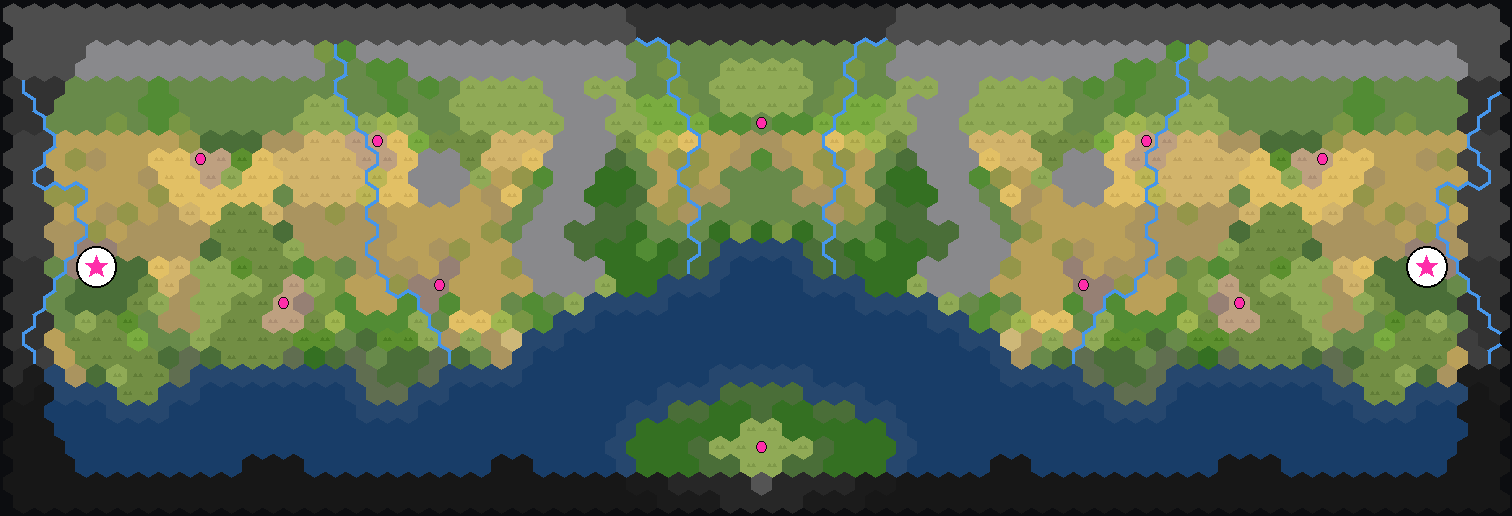
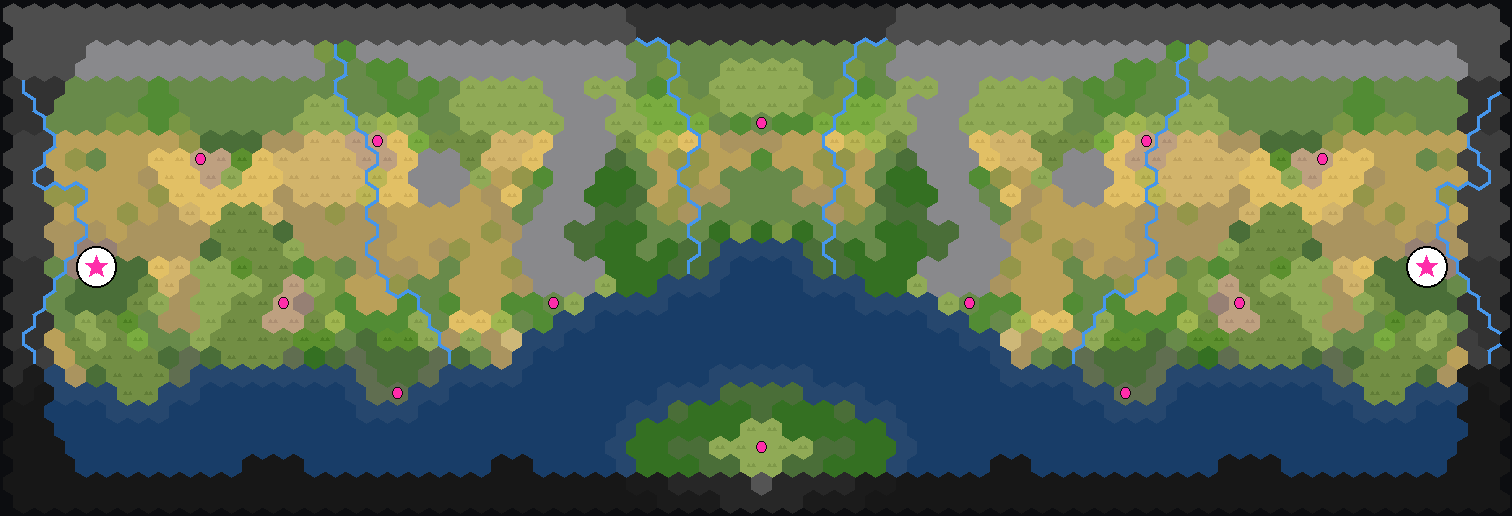
Regenerate config atlas for the mid-valley city pair
Re-render the 24-map config grid ({Duel,Tiny} x {Square,Wide,Ultrawide} x
{Mirror,PointSymmetry} x seeds 1,5) and rebuild index.html so the showcase
reflects the new central valley — four contested cities down the spine
(island + highland end prizes plus the mid-valley mirror pair). All 24
maps carry the pair.

Claude-Session: https://claude.ai/code/session_016anqmz6LqKaoVPgJrYHWkN

diff --git a/atlas/index.html b/atlas/index.html
@@ -30,11 +30,11 @@ h1 { margin: 0 0 4px; font: 600 18px/1.2 ui-monospace, Menlo, monospace;
 #lb { position: fixed; inset: 0; background: #000d; display: none;
       align-items: center; justify-content: center; z-index: 50; cursor: zoom-out; }
 #lb img { max-width: 96vw; max-height: 96vh; image-rendering: auto; }
-.section{margin:22px 22px 0;font:600 15px ui-monospace,Menlo,monospace;color:#8fd18f;}</style></head><body>
+</style></head><body>
 <header><h1>Caldera Bay — Config Atlas</h1>
 <div class="sub">Duel &amp; Tiny · Square / Wide / Ultrawide · Mirror (classic estuary)
 vs Point Symmetry (the S-strait) · always Temperate</div></header>
-<h2 class="section">Duel · Mirror — 6 gens</h2><div class="grid"><div class="card"><img src="maps/Caldera_Bay_Duel-Square-Mirror-1.png" loading="lazy"><div class="meta"><div class="seed">seed Duel-Square-Mirror-1</div><div class="chips"><span class="chip">46×44</span><span class="chip">12% flat-lush</span><span class="chip">water 476</span><span class="chip">mtn 275</span><span class="chip bad">rivers 167</span><span class="chip bad">forest 299</span><span class="chip ok">2 starts</span><span class="chip ok">mirror-sym</span><span class="chip">sites 14</span><span class="chip">tribes 10</span><span class="chip">res 57</span></div></div></div><div class="card"><img src="maps/Caldera_Bay_Duel-Square-Mirror-5.png" loading="lazy"><div class="meta"><div class="seed">seed Duel-Square-Mirror-5</div><div class="chips"><span class="chip">46×44</span><span class="chip">11% flat-lush</span><span class="chip">water 455</span><span class="chip">mtn 338</span><span class="chip bad">rivers 176</span><span class="chip bad">forest 361</span><span class="chip ok">2 starts</span><span class="chip ok">mirror-sym</span><span class="chip">sites 12</span><span class="chip">tribes 8</span><span class="chip">res 86</span></div></div></div><div class="card"><img src="maps/Caldera_Bay_Duel-Wide-Mirror-1.png" loading="lazy"><div class="meta"><div class="seed">seed Duel-Wide-Mirror-1</div><div class="chips"><span class="chip">58×34</span><span class="chip">13% flat-lush</span><span class="chip">water 542</span><span class="chip">mtn 292</span><span class="chip bad">rivers 143</span><span class="chip bad">forest 319</span><span class="chip ok">2 starts</span><span class="chip ok">mirror-sym</span><span class="chip">sites 12</span><span class="chip">tribes 8</span><span class="chip">res 74</span></div></div></div><div class="card"><img src="maps/Caldera_Bay_Duel-Wide-Mirror-5.png" loading="lazy"><div class="meta"><div class="seed">seed Duel-Wide-Mirror-5</div><div class="chips"><span class="chip">58×34</span><span class="chip">12% flat-lush</span><span class="chip">water 507</span><span class="chip">mtn 300</span><span class="chip bad">rivers 136</span><span class="chip bad">forest 365</span><span class="chip ok">2 starts</span><span class="chip ok">mirror-sym</span><span class="chip">sites 14</span><span class="chip">tribes 10</span><span class="chip">res 74</span></div></div></div><div class="card"><img src="maps/Caldera_Bay_Duel-Ultrawide-Mirror-1.png" loading="lazy"><div class="meta"><div class="seed">seed Duel-Ultrawide-Mirror-1</div><div class="chips"><span class="chip">72×28</span><span class="chip">16% flat-lush</span><span class="chip">water 613</span><span class="chip">mtn 298</span><span class="chip bad">rivers 173</span><span class="chip bad">forest 270</span><span class="chip ok">2 starts</span><span class="chip ok">mirror-sym</span><span class="chip">sites 16</span><span class="chip">tribes 10</span><span class="chip">res 72</span></div></div></div><div class="card"><img src="maps/Caldera_Bay_Duel-Ultrawide-Mirror-5.png" loading="lazy"><div class="meta"><div class="seed">seed Duel-Ultrawide-Mirror-5</div><div class="chips"><span class="chip">72×28</span><span class="chip">8% flat-lush</span><span class="chip">water 587</span><span class="chip">mtn 304</span><span class="chip bad">rivers 146</span><span class="chip bad">forest 372</span><span class="chip ok">2 starts</span><span class="chip ok">mirror-sym</span><span class="chip">sites 12</span><span class="chip">tribes 8</span><span class="chip">res 66</span></div></div></div></div><h2 class="section">Duel · Point Symmetry — 6 gens</h2><div class="grid"><div class="card"><img src="maps/Caldera_Bay_Duel-Square-PointSymmetry-1.png" loading="lazy"><div class="meta"><div class="seed">seed Duel-Square-PointSymmetry-1</div><div class="chips"><span class="chip">46×44</span><span class="chip">9% flat-lush</span><span class="chip">water 818</span><span class="chip">mtn 194</span><span class="chip bad">rivers 139</span><span class="chip bad">forest 264</span><span class="chip ok">2 starts</span><span class="chip ok">point-sym</span><span class="chip">sites 16</span><span class="chip">tribes 12</span><span class="chip">res 76</span></div></div></div><div class="card"><img src="maps/Caldera_Bay_Duel-Square-PointSymmetry-5.png" loading="lazy"><div class="meta"><div class="seed">seed Duel-Square-PointSymmetry-5</div><div class="chips"><span class="chip">46×44</span><span class="chip">6% flat-lush</span><span class="chip">water 762</span><span class="chip">mtn 240</span><span class="chip bad">rivers 140</span><span class="chip bad">forest 254</span><span class="chip ok">2 starts</span><span class="chip ok">point-sym</span><span class="chip">sites 14</span><span class="chip">tribes 10</span><span class="chip">res 70</span></div></div></div><div class="card"><img src="maps/Caldera_Bay_Duel-Wide-PointSymmetry-1.png" loading="lazy"><div class="meta"><div class="seed">seed Duel-Wide-PointSymmetry-1</div><div class="chips"><span class="chip">58×34</span><span class="chip">7% flat-lush</span><span class="chip">water 824</span><span class="chip">mtn 240</span><span class="chip bad">rivers 151</span><span class="chip bad">forest 282</span><span class="chip ok">2 starts</span><span class="chip ok">point-sym</span><span class="chip">sites 18</span><span class="chip">tribes 14</span><span class="chip">res 90</span></div></div></div><div class="card"><img src="maps/Caldera_Bay_Duel-Wide-PointSymmetry-5.png" loading="lazy"><div class="meta"><div class="seed">seed Duel-Wide-PointSymmetry-5</div><div class="chips"><span class="chip">58×34</span><span class="chip">7% flat-lush</span><span class="chip">water 806</span><span class="chip">mtn 252</span><span class="chip bad">rivers 120</span><span class="chip bad">forest 224</span><span class="chip ok">2 starts</span><span class="chip ok">point-sym</span><span class="chip">sites 14</span><span class="chip">tribes 10</span><span class="chip">res 75</span></div></div></div><div class="card"><img src="maps/Caldera_Bay_Duel-Ultrawide-PointSymmetry-1.png" loading="lazy"><div class="meta"><div class="seed">seed Duel-Ultrawide-PointSymmetry-1</div><div class="chips"><span class="chip">72×28</span><span class="chip">11% flat-lush</span><span class="chip">water 856</span><span class="chip">mtn 266</span><span class="chip bad">rivers 170</span><span class="chip bad">forest 275</span><span class="chip ok">2 starts</span><span class="chip ok">point-sym</span><span class="chip">sites 14</span><span class="chip">tribes 10</span><span class="chip">res 67</span></div></div></div><div class="card"><img src="maps/Caldera_Bay_Duel-Ultrawide-PointSymmetry-5.png" loading="lazy"><div class="meta"><div class="seed">seed Duel-Ultrawide-PointSymmetry-5</div><div class="chips"><span class="chip">72×28</span><span class="chip">7% flat-lush</span><span class="chip">water 878</span><span class="chip">mtn 272</span><span class="chip bad">rivers 135</span><span class="chip bad">forest 236</span><span class="chip ok">2 starts</span><span class="chip ok">point-sym</span><span class="chip">sites 18</span><span class="chip">tribes 12</span><span class="chip">res 74</span></div></div></div></div><h2 class="section">Tiny · Mirror — 6 gens</h2><div class="grid"><div class="card"><img src="maps/Caldera_Bay_Tiny-Square-Mirror-1.png" loading="lazy"><div class="meta"><div class="seed">seed Tiny-Square-Mirror-1</div><div class="chips"><span class="chip">58×58</span><span class="chip">14% flat-lush</span><span class="chip">water 776</span><span class="chip">mtn 389</span><span class="chip bad">rivers 188</span><span class="chip bad">forest 526</span><span class="chip ok">2 starts</span><span class="chip ok">mirror-sym</span><span class="chip">sites 26</span><span class="chip">tribes 20</span><span class="chip">res 120</span></div></div></div><div class="card"><img src="maps/Caldera_Bay_Tiny-Square-Mirror-5.png" loading="lazy"><div class="meta"><div class="seed">seed Tiny-Square-Mirror-5</div><div class="chips"><span class="chip">58×58</span><span class="chip">15% flat-lush</span><span class="chip">water 813</span><span class="chip">mtn 451</span><span class="chip bad">rivers 242</span><span class="chip bad">forest 401</span><span class="chip ok">2 starts</span><span class="chip ok">mirror-sym</span><span class="chip">sites 24</span><span class="chip">tribes 20</span><span class="chip">res 141</span></div></div></div><div class="card"><img src="maps/Caldera_Bay_Tiny-Wide-Mirror-1.png" loading="lazy"><div class="meta"><div class="seed">seed Tiny-Wide-Mirror-1</div><div class="chips"><span class="chip">74×46</span><span class="chip">14% flat-lush</span><span class="chip">water 756</span><span class="chip">mtn 469</span><span class="chip bad">rivers 262</span><span class="chip bad">forest 485</span><span class="chip ok">2 starts</span><span class="chip ok">mirror-sym</span><span class="chip">sites 26</span><span class="chip">tribes 20</span><span class="chip">res 142</span></div></div></div><div class="card"><img src="maps/Caldera_Bay_Tiny-Wide-Mirror-5.png" loading="lazy"><div class="meta"><div class="seed">seed Tiny-Wide-Mirror-5</div><div class="chips"><span class="chip">74×46</span><span class="chip">10% flat-lush</span><span class="chip">water 719</span><span class="chip">mtn 486</span><span class="chip bad">rivers 240</span><span class="chip bad">forest 406</span><span class="chip ok">2 starts</span><span class="chip ok">mirror-sym</span><span class="chip">sites 24</span><span class="chip">tribes 20</span><span class="chip">res 138</span></div></div></div><div class="card"><img src="maps/Caldera_Bay_Tiny-Ultrawide-Mirror-1.png" loading="lazy"><div class="meta"><div class="seed">seed Tiny-Ultrawide-Mirror-1</div><div class="chips"><span class="chip">92×36</span><span class="chip">11% flat-lush</span><span class="chip">water 785</span><span class="chip">mtn 343</span><span class="chip bad">rivers 239</span><span class="chip bad">forest 455</span><span class="chip ok">2 starts</span><span class="chip ok">mirror-sym</span><span class="chip">sites 24</span><span class="chip">tribes 18</span><span class="chip">res 125</span></div></div></div><div class="card"><img src="maps/Caldera_Bay_Tiny-Ultrawide-Mirror-5.png" loading="lazy"><div class="meta"><div class="seed">seed Tiny-Ultrawide-Mirror-5</div><div class="chips"><span class="chip">92×36</span><span class="chip">9% flat-lush</span><span class="chip">water 789</span><span class="chip">mtn 531</span><span class="chip bad">rivers 237</span><span class="chip bad">forest 599</span><span class="chip ok">2 starts</span><span class="chip ok">mirror-sym</span><span class="chip">sites 24</span><span class="chip">tribes 20</span><span class="chip">res 132</span></div></div></div></div><h2 class="section">Tiny · Point Symmetry — 6 gens</h2><div class="grid"><div class="card"><img src="maps/Caldera_Bay_Tiny-Square-PointSymmetry-1.png" loading="lazy"><div class="meta"><div class="seed">seed Tiny-Square-PointSymmetry-1</div><div class="chips"><span class="chip">58×58</span><span class="chip">8% flat-lush</span><span class="chip">water 1142</span><span class="chip">mtn 336</span><span class="chip bad">rivers 222</span><span class="chip bad">forest 552</span><span class="chip ok">2 starts</span><span class="chip ok">point-sym</span><span class="chip">sites 26</span><span class="chip">tribes 22</span><span class="chip">res 146</span></div></div></div><div class="card"><img src="maps/Caldera_Bay_Tiny-Square-PointSymmetry-5.png" loading="lazy"><div class="meta"><div class="seed">seed Tiny-Square-PointSymmetry-5</div><div class="chips"><span class="chip">58×58</span><span class="chip">11% flat-lush</span><span class="chip">water 1026</span><span class="chip">mtn 402</span><span class="chip bad">rivers 232</span><span class="chip bad">forest 334</span><span class="chip ok">2 starts</span><span class="chip ok">point-sym</span><span class="chip">sites 26</span><span class="chip">tribes 22</span><span class="chip">res 121</span></div></div></div><div class="card"><img src="maps/Caldera_Bay_Tiny-Wide-PointSymmetry-1.png" loading="lazy"><div class="meta"><div class="seed">seed Tiny-Wide-PointSymmetry-1</div><div class="chips"><span class="chip">74×46</span><span class="chip">8% flat-lush</span><span class="chip">water 1028</span><span class="chip">mtn 410</span><span class="chip bad">rivers 242</span><span class="chip bad">forest 470</span><span class="chip ok">2 starts</span><span class="chip ok">point-sym</span><span class="chip">sites 26</span><span class="chip">tribes 22</span><span class="chip">res 116</span></div></div></div><div class="card"><img src="maps/Caldera_Bay_Tiny-Wide-PointSymmetry-5.png" loading="lazy"><div class="meta"><div class="seed">seed Tiny-Wide-PointSymmetry-5</div><div class="chips"><span class="chip">74×46</span><span class="chip">12% flat-lush</span><span class="chip">water 1056</span><span class="chip">mtn 414</span><span class="chip bad">rivers 232</span><span class="chip bad">forest 396</span><span class="chip ok">2 starts</span><span class="chip ok">point-sym</span><span class="chip">sites 26</span><span class="chip">tribes 22</span><span class="chip">res 138</span></div></div></div><div class="card"><img src="maps/Caldera_Bay_Tiny-Ultrawide-PointSymmetry-1.png" loading="lazy"><div class="meta"><div class="seed">seed Tiny-Ultrawide-PointSymmetry-1</div><div class="chips"><span class="chip">92×36</span><span class="chip">10% flat-lush</span><span class="chip">water 1056</span><span class="chip">mtn 374</span><span class="chip bad">rivers 228</span><span class="chip bad">forest 500</span><span class="chip ok">2 starts</span><span class="chip ok">point-sym</span><span class="chip">sites 28</span><span class="chip">tribes 22</span><span class="chip">res 120</span></div></div></div><div class="card"><img src="maps/Caldera_Bay_Tiny-Ultrawide-PointSymmetry-5.png" loading="lazy"><div class="meta"><div class="seed">seed Tiny-Ultrawide-PointSymmetry-5</div><div class="chips"><span class="chip">92×36</span><span class="chip">7% flat-lush</span><span class="chip">water 1100</span><span class="chip">mtn 488</span><span class="chip bad">rivers 233</span><span class="chip bad">forest 480</span><span class="chip ok">2 starts</span><span class="chip ok">point-sym</span><span class="chip">sites 24</span><span class="chip">tribes 20</span><span class="chip">res 119</span></div></div></div></div>
+<div class="grid"><div class="card"><img src="maps/Caldera_Bay_Duel-Square-Mirror-1.png" loading="lazy"><div class="meta"><div class="seed">seed Duel-Square-Mirror-1</div><div class="chips"><span class="chip">46×44</span><span class="chip">12% flat-lush</span><span class="chip">water 476</span><span class="chip">mtn 275</span><span class="chip bad">rivers 167</span><span class="chip bad">forest 292</span><span class="chip ok">2 starts</span><span class="chip ok">mirror-sym</span><span class="chip">sites 14</span><span class="chip">tribes 10</span><span class="chip">res 60</span></div></div></div><div class="card"><img src="maps/Caldera_Bay_Duel-Square-Mirror-5.png" loading="lazy"><div class="meta"><div class="seed">seed Duel-Square-Mirror-5</div><div class="chips"><span class="chip">46×44</span><span class="chip">11% flat-lush</span><span class="chip">water 455</span><span class="chip">mtn 338</span><span class="chip bad">rivers 176</span><span class="chip bad">forest 356</span><span class="chip ok">2 starts</span><span class="chip ok">mirror-sym</span><span class="chip">sites 14</span><span class="chip">tribes 10</span><span class="chip">res 74</span></div></div></div><div class="card"><img src="maps/Caldera_Bay_Duel-Square-PointSymmetry-1.png" loading="lazy"><div class="meta"><div class="seed">seed Duel-Square-PointSymmetry-1</div><div class="chips"><span class="chip">46×44</span><span class="chip">12% flat-lush</span><span class="chip">water 477</span><span class="chip">mtn 277</span><span class="chip bad">rivers 143</span><span class="chip bad">forest 295</span><span class="chip ok">2 starts</span><span class="chip ok">point-sym</span><span class="chip">sites 15</span><span class="chip">tribes 10</span><span class="chip">res 78</span></div></div></div><div class="card"><img src="maps/Caldera_Bay_Duel-Square-PointSymmetry-5.png" loading="lazy"><div class="meta"><div class="seed">seed Duel-Square-PointSymmetry-5</div><div class="chips"><span class="chip">46×44</span><span class="chip">11% flat-lush</span><span class="chip">water 459</span><span class="chip">mtn 338</span><span class="chip bad">rivers 134</span><span class="chip bad">forest 377</span><span class="chip ok">2 starts</span><span class="chip ok">point-sym</span><span class="chip">sites 17</span><span class="chip">tribes 12</span><span class="chip">res 92</span></div></div></div><div class="card"><img src="maps/Caldera_Bay_Duel-Ultrawide-Mirror-1.png" loading="lazy"><div class="meta"><div class="seed">seed Duel-Ultrawide-Mirror-1</div><div class="chips"><span class="chip">72×28</span><span class="chip">16% flat-lush</span><span class="chip">water 613</span><span class="chip">mtn 298</span><span class="chip bad">rivers 173</span><span class="chip bad">forest 273</span><span class="chip ok">2 starts</span><span class="chip ok">mirror-sym</span><span class="chip">sites 16</span><span class="chip">tribes 10</span><span class="chip">res 66</span></div></div></div><div class="card"><img src="maps/Caldera_Bay_Duel-Ultrawide-Mirror-5.png" loading="lazy"><div class="meta"><div class="seed">seed Duel-Ultrawide-Mirror-5</div><div class="chips"><span class="chip">72×28</span><span class="chip">8% flat-lush</span><span class="chip">water 587</span><span class="chip">mtn 304</span><span class="chip bad">rivers 146</span><span class="chip bad">forest 380</span><span class="chip ok">2 starts</span><span class="chip ok">mirror-sym</span><span class="chip">sites 14</span><span class="chip">tribes 10</span><span class="chip">res 72</span></div></div></div><div class="card"><img src="maps/Caldera_Bay_Duel-Ultrawide-PointSymmetry-1.png" loading="lazy"><div class="meta"><div class="seed">seed Duel-Ultrawide-PointSymmetry-1</div><div class="chips"><span class="chip">72×28</span><span class="chip">16% flat-lush</span><span class="chip">water 613</span><span class="chip">mtn 298</span><span class="chip bad">rivers 163</span><span class="chip bad">forest 264</span><span class="chip ok">2 starts</span><span class="chip ok">point-sym</span><span class="chip">sites 14</span><span class="chip">tribes 8</span><span class="chip">res 74</span></div></div></div><div class="card"><img src="maps/Caldera_Bay_Duel-Ultrawide-PointSymmetry-5.png" loading="lazy"><div class="meta"><div class="seed">seed Duel-Ultrawide-PointSymmetry-5</div><div class="chips"><span class="chip">72×28</span><span class="chip">7% flat-lush</span><span class="chip">water 591</span><span class="chip">mtn 304</span><span class="chip bad">rivers 152</span><span class="chip bad">forest 362</span><span class="chip ok">2 starts</span><span class="chip ok">point-sym</span><span class="chip">sites 15</span><span class="chip">tribes 10</span><span class="chip">res 76</span></div></div></div><div class="card"><img src="maps/Caldera_Bay_Duel-Wide-Mirror-1.png" loading="lazy"><div class="meta"><div class="seed">seed Duel-Wide-Mirror-1</div><div class="chips"><span class="chip">58×34</span><span class="chip">13% flat-lush</span><span class="chip">water 542</span><span class="chip">mtn 292</span><span class="chip bad">rivers 143</span><span class="chip bad">forest 314</span><span class="chip ok">2 starts</span><span class="chip ok">mirror-sym</span><span class="chip">sites 14</span><span class="chip">tribes 10</span><span class="chip">res 78</span></div></div></div><div class="card"><img src="maps/Caldera_Bay_Duel-Wide-Mirror-5.png" loading="lazy"><div class="meta"><div class="seed">seed Duel-Wide-Mirror-5</div><div class="chips"><span class="chip">58×34</span><span class="chip">12% flat-lush</span><span class="chip">water 507</span><span class="chip">mtn 300</span><span class="chip bad">rivers 136</span><span class="chip bad">forest 357</span><span class="chip ok">2 starts</span><span class="chip ok">mirror-sym</span><span class="chip">sites 16</span><span class="chip">tribes 12</span><span class="chip">res 64</span></div></div></div><div class="card"><img src="maps/Caldera_Bay_Duel-Wide-PointSymmetry-1.png" loading="lazy"><div class="meta"><div class="seed">seed Duel-Wide-PointSymmetry-1</div><div class="chips"><span class="chip">58×34</span><span class="chip">13% flat-lush</span><span class="chip">water 543</span><span class="chip">mtn 292</span><span class="chip bad">rivers 139</span><span class="chip bad">forest 320</span><span class="chip ok">2 starts</span><span class="chip ok">point-sym</span><span class="chip">sites 15</span><span class="chip">tribes 10</span><span class="chip">res 80</span></div></div></div><div class="card"><img src="maps/Caldera_Bay_Duel-Wide-PointSymmetry-5.png" loading="lazy"><div class="meta"><div class="seed">seed Duel-Wide-PointSymmetry-5</div><div class="chips"><span class="chip">58×34</span><span class="chip">12% flat-lush</span><span class="chip">water 510</span><span class="chip">mtn 300</span><span class="chip bad">rivers 148</span><span class="chip bad">forest 366</span><span class="chip ok">2 starts</span><span class="chip ok">point-sym</span><span class="chip">sites 17</span><span class="chip">tribes 12</span><span class="chip">res 66</span></div></div></div><div class="card"><img src="maps/Caldera_Bay_Tiny-Square-Mirror-1.png" loading="lazy"><div class="meta"><div class="seed">seed Tiny-Square-Mirror-1</div><div class="chips"><span class="chip">58×58</span><span class="chip">14% flat-lush</span><span class="chip">water 776</span><span class="chip">mtn 389</span><span class="chip bad">rivers 188</span><span class="chip bad">forest 529</span><span class="chip ok">2 starts</span><span class="chip ok">mirror-sym</span><span class="chip">sites 26</span><span class="chip">tribes 22</span><span class="chip">res 111</span></div></div></div><div class="card"><img src="maps/Caldera_Bay_Tiny-Square-Mirror-5.png" loading="lazy"><div class="meta"><div class="seed">seed Tiny-Square-Mirror-5</div><div class="chips"><span class="chip">58×58</span><span class="chip">15% flat-lush</span><span class="chip">water 813</span><span class="chip">mtn 451</span><span class="chip bad">rivers 242</span><span class="chip bad">forest 402</span><span class="chip ok">2 starts</span><span class="chip ok">mirror-sym</span><span class="chip">sites 28</span><span class="chip">tribes 22</span><span class="chip">res 142</span></div></div></div><div class="card"><img src="maps/Caldera_Bay_Tiny-Square-PointSymmetry-1.png" loading="lazy"><div class="meta"><div class="seed">seed Tiny-Square-PointSymmetry-1</div><div class="chips"><span class="chip">58×58</span><span class="chip">13% flat-lush</span><span class="chip">water 768</span><span class="chip">mtn 389</span><span class="chip bad">rivers 213</span><span class="chip bad">forest 548</span><span class="chip ok">2 starts</span><span class="chip ok">point-sym</span><span class="chip">sites 27</span><span class="chip">tribes 22</span><span class="chip">res 124</span></div></div></div><div class="card"><img src="maps/Caldera_Bay_Tiny-Square-PointSymmetry-5.png" loading="lazy"><div class="meta"><div class="seed">seed Tiny-Square-PointSymmetry-5</div><div class="chips"><span class="chip">58×58</span><span class="chip">16% flat-lush</span><span class="chip">water 815</span><span class="chip">mtn 451</span><span class="chip bad">rivers 242</span><span class="chip bad">forest 397</span><span class="chip ok">2 starts</span><span class="chip ok">point-sym</span><span class="chip">sites 27</span><span class="chip">tribes 22</span><span class="chip">res 163</span></div></div></div><div class="card"><img src="maps/Caldera_Bay_Tiny-Ultrawide-Mirror-1.png" loading="lazy"><div class="meta"><div class="seed">seed Tiny-Ultrawide-Mirror-1</div><div class="chips"><span class="chip">92×36</span><span class="chip">11% flat-lush</span><span class="chip">water 785</span><span class="chip">mtn 343</span><span class="chip bad">rivers 239</span><span class="chip bad">forest 461</span><span class="chip ok">2 starts</span><span class="chip ok">mirror-sym</span><span class="chip">sites 26</span><span class="chip">tribes 20</span><span class="chip">res 156</span></div></div></div><div class="card"><img src="maps/Caldera_Bay_Tiny-Ultrawide-Mirror-5.png" loading="lazy"><div class="meta"><div class="seed">seed Tiny-Ultrawide-Mirror-5</div><div class="chips"><span class="chip">92×36</span><span class="chip">9% flat-lush</span><span class="chip">water 789</span><span class="chip">mtn 531</span><span class="chip bad">rivers 237</span><span class="chip bad">forest 588</span><span class="chip ok">2 starts</span><span class="chip ok">mirror-sym</span><span class="chip">sites 26</span><span class="chip">tribes 22</span><span class="chip">res 152</span></div></div></div><div class="card"><img src="maps/Caldera_Bay_Tiny-Ultrawide-PointSymmetry-1.png" loading="lazy"><div class="meta"><div class="seed">seed Tiny-Ultrawide-PointSymmetry-1</div><div class="chips"><span class="chip">92×36</span><span class="chip">12% flat-lush</span><span class="chip">water 805</span><span class="chip">mtn 343</span><span class="chip bad">rivers 232</span><span class="chip bad">forest 464</span><span class="chip ok">2 starts</span><span class="chip ok">point-sym</span><span class="chip">sites 26</span><span class="chip">tribes 20</span><span class="chip">res 145</span></div></div></div><div class="card"><img src="maps/Caldera_Bay_Tiny-Ultrawide-PointSymmetry-5.png" loading="lazy"><div class="meta"><div class="seed">seed Tiny-Ultrawide-PointSymmetry-5</div><div class="chips"><span class="chip">92×36</span><span class="chip">9% flat-lush</span><span class="chip">water 793</span><span class="chip">mtn 533</span><span class="chip bad">rivers 203</span><span class="chip bad">forest 599</span><span class="chip ok">2 starts</span><span class="chip ok">point-sym</span><span class="chip">sites 27</span><span class="chip">tribes 22</span><span class="chip">res 149</span></div></div></div><div class="card"><img src="maps/Caldera_Bay_Tiny-Wide-Mirror-1.png" loading="lazy"><div class="meta"><div class="seed">seed Tiny-Wide-Mirror-1</div><div class="chips"><span class="chip">74×46</span><span class="chip">14% flat-lush</span><span class="chip">water 756</span><span class="chip">mtn 469</span><span class="chip bad">rivers 262</span><span class="chip bad">forest 478</span><span class="chip ok">2 starts</span><span class="chip ok">mirror-sym</span><span class="chip">sites 28</span><span class="chip">tribes 22</span><span class="chip">res 138</span></div></div></div><div class="card"><img src="maps/Caldera_Bay_Tiny-Wide-Mirror-5.png" loading="lazy"><div class="meta"><div class="seed">seed Tiny-Wide-Mirror-5</div><div class="chips"><span class="chip">74×46</span><span class="chip">10% flat-lush</span><span class="chip">water 719</span><span class="chip">mtn 486</span><span class="chip bad">rivers 240</span><span class="chip bad">forest 409</span><span class="chip ok">2 starts</span><span class="chip ok">mirror-sym</span><span class="chip">sites 26</span><span class="chip">tribes 22</span><span class="chip">res 146</span></div></div></div><div class="card"><img src="maps/Caldera_Bay_Tiny-Wide-PointSymmetry-1.png" loading="lazy"><div class="meta"><div class="seed">seed Tiny-Wide-PointSymmetry-1</div><div class="chips"><span class="chip">74×46</span><span class="chip">13% flat-lush</span><span class="chip">water 759</span><span class="chip">mtn 467</span><span class="chip bad">rivers 249</span><span class="chip bad">forest 463</span><span class="chip ok">2 starts</span><span class="chip ok">point-sym</span><span class="chip">sites 27</span><span class="chip">tribes 22</span><span class="chip">res 133</span></div></div></div><div class="card"><img src="maps/Caldera_Bay_Tiny-Wide-PointSymmetry-5.png" loading="lazy"><div class="meta"><div class="seed">seed Tiny-Wide-PointSymmetry-5</div><div class="chips"><span class="chip">74×46</span><span class="chip">10% flat-lush</span><span class="chip">water 720</span><span class="chip">mtn 486</span><span class="chip bad">rivers 252</span><span class="chip bad">forest 410</span><span class="chip ok">2 starts</span><span class="chip ok">point-sym</span><span class="chip">sites 27</span><span class="chip">tribes 22</span><span class="chip">res 143</span></div></div></div></div>
 <div id="lb"><img alt=""></div>
 <script>
 const lb = document.getElementById('lb'), lbimg = lb.querySelector('img');
